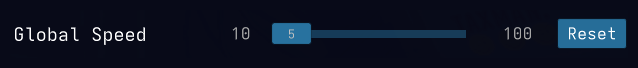
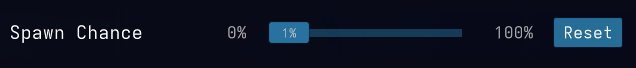
Uploaded portal example for documentation

diff --git a/Imperium/src/API/Examples/PortalExample.cs b/Imperium/src/API/Examples/PortalExample.cs
@@ -1,0 +1,42 @@
+using Imperium.API.Types.Portals;
+using Librarium.Binding;
+using UnityEngine;
+
+namespace Imperium.API.Examples;
+
+internal class PortalExample : MonoBehaviour
+{
+    private void Awake()
+    {
+        var inputFieldBinding = new ImpBinding<string>("");
+        var dropdownBinding = new ImpBinding<int>(0);
+        var movementSpeedBinding = new ImpBinding<float>(1f);
+
+        API.Portal.ForGuid(LCMPluginInfo.PLUGIN_GUID)
+            .InSection("General Config")
+            .Register(
+                new ImpPortalTextField("Global Modifier", inputFieldBinding, "Generated")
+                    .SetTooltip(new ImpPortalTooltip("Global Modifier", "Bla bla bla"))
+                    .SetInteractableBinding(API.State.IsGameLevel),
+                new ImpPortalSlider("Global Speed", new ImpBinding<float>(5f), 10, 100)
+            );
+
+        API.Portal.ForGuid(LCMPluginInfo.PLUGIN_GUID)
+            .InSection("Example Enemy")
+            .Register(
+                new ImpPortalDropdown("Behaviour", dropdownBinding, ["Passive", "Active"], "Generated", allowReset: false),
+                new ImpPortalNumberField(
+                    "Current Health",
+                    new ImpBinding<int>(100),
+                    0,
+                    100
+                ),
+                new ImpPortalToggle("Vision Enabled", new ImpBinding<bool>()),
+                new ImpPortalToggle("Hearing Enabled", new ImpBinding<bool>()),
+                new ImpPortalToggle("Disabled", new ImpBinding<bool>()),
+                new ImpPortalSlider("Spawn Chance", movementSpeedBinding, 0, 100, valueUnit: "%"),
+                new ImpPortalButton("Spawn", () => {}),
+                new ImpPortalButton("Despawn", () => {})
+            );
+    }
+}
